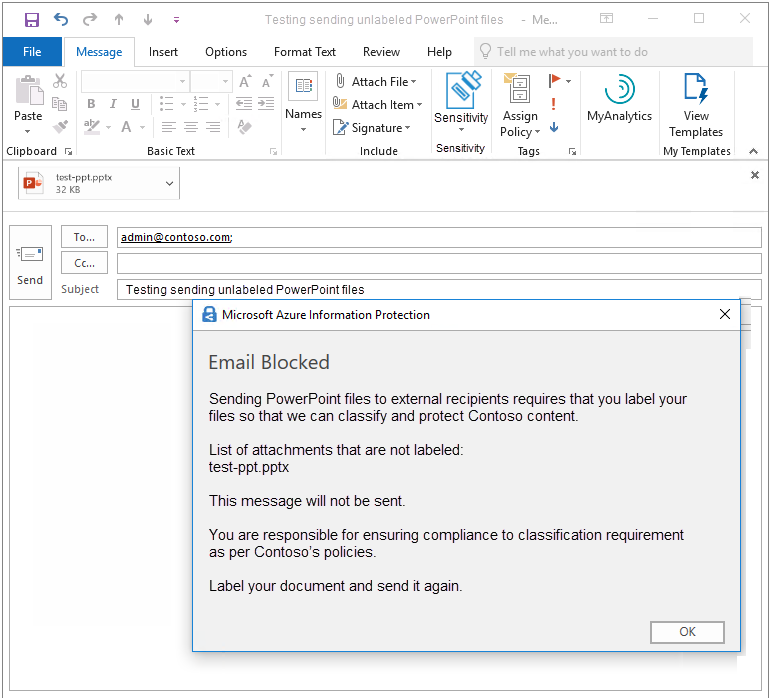
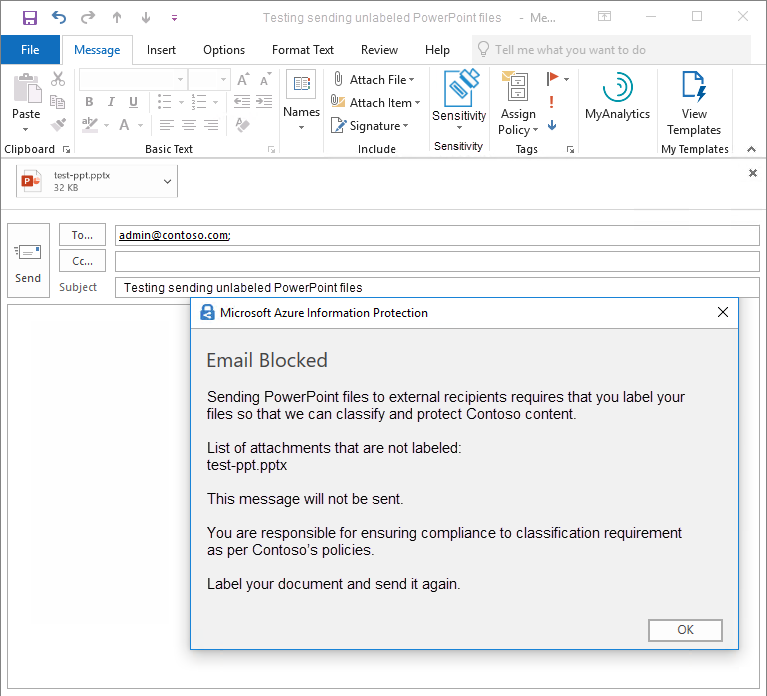
complete images update in tutorials

diff --git a/Azure-RMSDocs/tutorial-preventing-oversharing.md b/Azure-RMSDocs/tutorial-preventing-oversharing.md
@@ -300,7 +300,9 @@ This procedure describes how to customize the message that appears when a user t
     
         Outlook blocks the email from being sent, and display the following message:
 
-        **TBD**
+        :::image type="content" source="media/qs-tutor/ul-see-custom-blockmessage.png" alt-text="Custom block message for PowerPoint files with no label":::
+
+Continue with [Use Event Log to identify the messages and user actions for the General label](#use-event-log-to-identify-the-messages-and-user-actions-for-the-general-label).
 
 ## Use Event Log to identify the messages and user actions for the General label
 
@@ -310,7 +312,7 @@ You've also checked the behavior from Outlook on your local client computer.
 
 Now you can start the Event Viewer to check the logs for the actions that occurred.
 
-**Check the Event Viewer for AIP logging events**
+**To check the Event Viewer for AIP logging events:**
 
 On your client machine, open the Event Viewer application, and navigate to **Applications and Services Logs** > **Azure Information Protection**.
 
@@ -320,13 +322,21 @@ You'll see an information event logged for each test you performed, including de
 - **Justify messages:** Information ID 302
 - **Block messages:** Information ID 303
 
-For example, the first test was to warn the user, and you selected **Cancel**. In this case, the **User Response** displays **Dismissed** in the first Event 301:
+For example:
+
+- [Check the Event log for your warning message tests](#check-the-event-log-for-your-warning-message-tests)
+- [Check the Event log for your justify message tests](#check-the-event-log-for-your-justify-message-tests)
+- - [Check the Event log for your block message tests](#check-the-event-log-for-your-block-message-tests)
+
+### Check the Event log for your warning message tests
+
+The first test was to warn the user, and you selected **Cancel**. In this case, the **User Response** displays **Dismissed** in the first Event 301:
 
 ```
-Client Version: 2.8.85
+Client Version: 2.8.85.0
 Client Policy ID: e5287fe6-f82c-447e-bf44-6fa8ff146ef4
-Item Full Path: Testing the General label for the Warn message.msg
-Item Name: Testing the General label for the Warn message
+Item Full Path: Testing a warning message for the General label.msg
+Item Name: Testing a warning message for the General label
 Process Name: OUTLOOK
 Action: Warn
 Label After Action: General
@@ -338,10 +348,10 @@ User Response: Dismissed
 However, you then selected **Confirm and Send**, which is reflected in the next Event 301, where the **User Response** displays **Confirmed**:
 
 ```
-Client Version: 2.8.85
+Client Version: 2.8.85.0
 Client Policy ID: e5287fe6-f82c-447e-bf44-6fa8ff146ef4
-Item Full Path: Testing the General label for the Warn message.msg
-Item Name: Testing the General label for the Warn message
+Item Full Path: Testing a warning message for the General label.msg
+Item Name: Testing a warning message for the General label
 Process Name: OUTLOOK
 Action: Warn
 Label After Action: General
@@ -350,13 +360,15 @@ Action Source:
 User Response: Confirmed
 ```
 
+### Check the Event log for your justify message tests
+
 The same pattern is repeated for the justify message, which has an Event 302. The first event has a **User Response** of **Dismissed**, and the second shows the justification that was selected. For example:
 
 ```
-Client Version: 2.8.85
+Client Version: 2.8.85.0
 Client Policy ID: e5287fe6-f82c-447e-bf44-6fa8ff146ef4
-Item Full Path: Testing the General label for the Justify message.msg
-Item Name: Testing the General label for the Justify message
+Item Full Path: Testing the justification message for unlabeled content.msg
+Item Name: Testing the justification message for unlabeled content
 Process Name: OUTLOOK
 Action: Justify
 Label After Action: General
@@ -367,13 +379,15 @@ User Response: Confirmed
 
 ```
 
+### Check the Event log for your block message tests
+
 At the top of the event log, you see the block message logged, which has an Event 303. For example:
 
 ```
-Client Version: 2.8.85
+Client Version: 2.8.85.0
 Client Policy ID: e5287fe6-f82c-447e-bf44-6fa8ff146ef4
-Item Full Path: Testing the General label for the Block message.msg
-Item Name: Testing the General label for the Block message
+Item Full Path: Testing sending unlabeled PowerPoint files.msg
+Item Name: Testing sending unlabeled PowerPoint files
 Process Name: OUTLOOK
 Action: Block
 Label After Action: General
@@ -381,29 +395,15 @@ Label ID After Action: 0e421e6d-ea17-4fdb-8f01-93a3e71333b8
 Action Source: 
 ```
 
-For example, the results of our justification prompt when the email didn't have a label:
-
-```
-Client Version: 2.8.85
-Client Policy ID: e5287fe6-f82c-447e-bf44-6fa8ff146ef4
-Item Full Path: Testing send an email without a label for the Justify message.msg
-Item Name: Testing send an email without a label for the Justify message
-Process Name: OUTLOOK
-Action: Justify
-User Justification: My manager approved sharing of this content
-Action Source: 
-User Response: Confirmed
-```
-
 ## Clean up resources
 
-Once you're finished with this tutorial, you can keep the policy for further reference, or delete it to clean up your resources.
+Once you're finished with this tutorial, you can keep the testing policy for further reference, or delete it to clean up your resources.
 
 Delete your policy in the admin center where it was created, either the Microsoft 365 compliance center, the Microsoft 365 security center, or the Microsoft 365 Security & Compliance Center.
 
 For more information, see the [Microsoft 365 documentation](https://docs.microsoft.com/microsoft-365/compliance/create-sensitivity-labels#publish-sensitivity-labels-by-creating-a-label-policy)
 
-Once deleted, restart Outlook so that it's no longer configured with the settings defined in this tutorial.
+Once deleted, restart Outlook on the client machine so that it's no longer configured with the settings defined in this tutorial.
 
 ## Next steps
 
